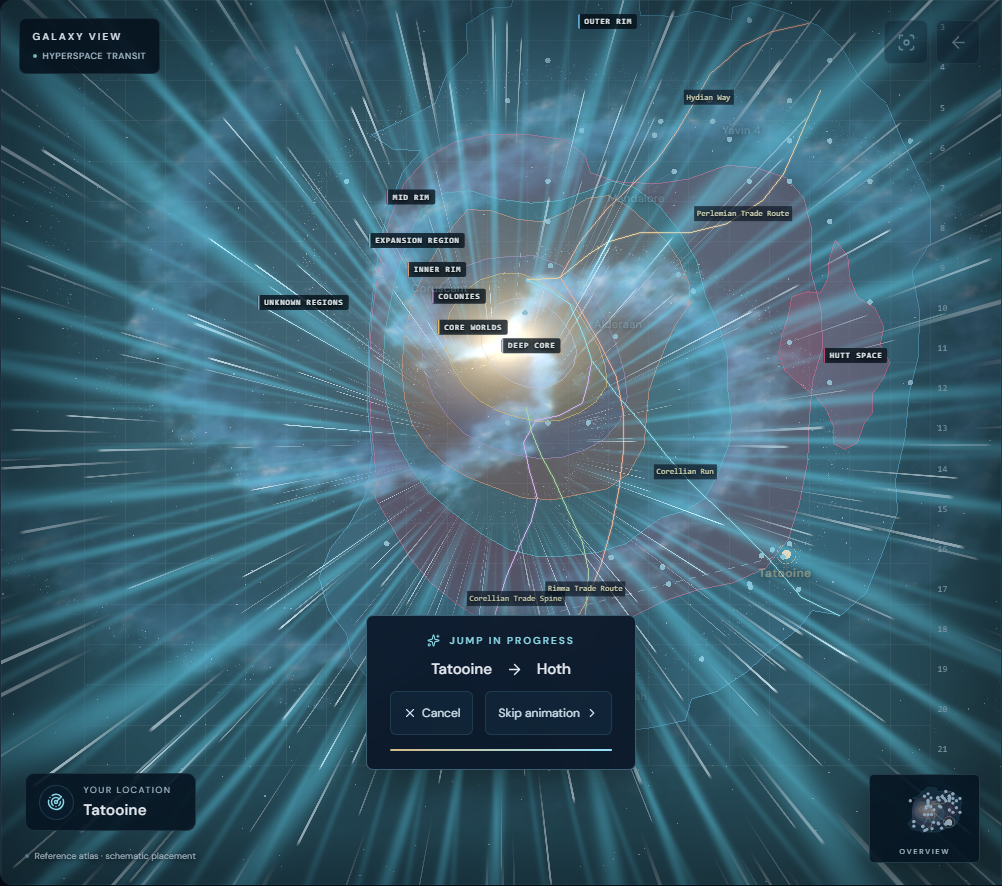
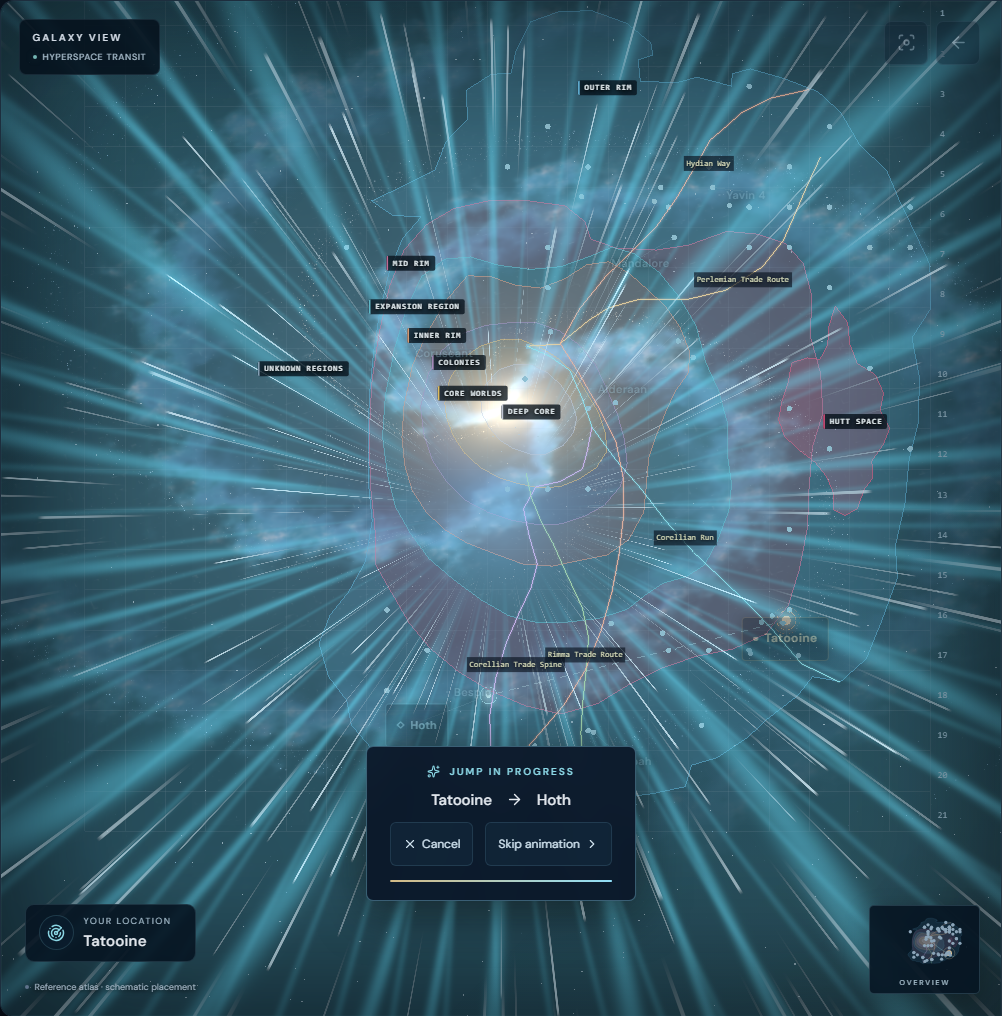
Record live 76-world map and 283-connection release verification

diff --git a/evidence/mapped-batch/release.md b/evidence/mapped-batch/release.md
@@ -23,3 +23,12 @@ Publication now includes mapped-world payload digests and guarded additive world
 The complete reviewed additive transaction then succeeded on Neon project young-hall-18334569, branch br-bitter-violet-ak7la0ve, database atlas. Public API full-payload digests verified76 worlds,283 appearances,193 works and5 sequences. Runtime credentials/permissions were unchanged. Explicit database expectations were updated only after verification.
 
 These browser checks use Chromium/software WebGL and emulated viewports, not physical-device performance measurements. Large-chunk warnings remain. No complete spoiler safety, exhaustive geography, continuous character itinerary or cloud progress synchronization is claimed. Live application deployment is recorded below after verification.
+
+
+## Live release
+
+Application commit `b01fc31aec9567a2d92fb411fcb409abbe4c6d99` deployed successfully through Cloudflare build `066646ac-7774-480e-b692-a965983f34c4`.
+
+Public URL: https://star-wars-universe-atlas.skdev-371.workers.dev
+
+Production checks passed: test-deployment (all six API endpoints, mapped-world/catalog/sequence/appearance payload digests, read-only API behavior, desktop/mobile map and warp/skip), test-mapped-expansion (all14 new choices, grids, Lothal jump, Ahsoka mapped stops, Peridea exclusion), test-map-density (76 labels, no visible optional-label overlap, selected-edge bounds and keyboard focus), and test-guided-journey (desktop/mobile/narrow layouts and spoiler/progress boundaries). No browser errors were reported. Publication-row identity and world digest were also read back directly from Neon. Updated production screenshots and JSON results are committed with this record.
